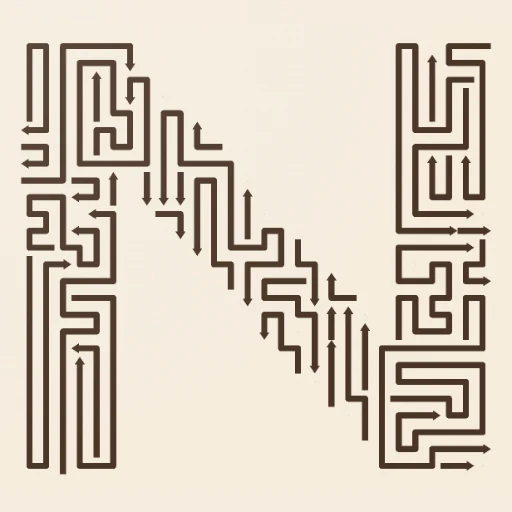
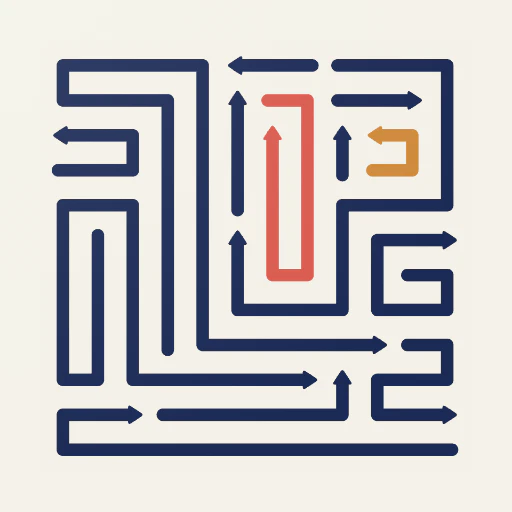
new app ad and nockways update

diff --git a/content/games/nockways.html b/content/games/nockways.html
@@ -1,81 +1,79 @@
 ---
 title: Nockways: Arrow Puzzle
-tagline: Tangled wires, one clear lane. Pull them off the board in the right order — handcrafted levels of quiet, brain-bending puzzling.
-description: A calm, offline arrow puzzle for Android. Thread interlocking wires off a crowded board, one careful move at a time. No forced ads, no timers.
-date: 2026-08-30
-status: Coming soon
+tagline: Tap the arrows in the right order and clear the whole board. A hundred handmade levels, no timers, no pressure.
+description: A calm arrow puzzle for Android. Tap each wire when its path is clear and untangle a hundred hand-built boards. Free, offline, with ads only when you ask for them.
+date: 2026-09-23
+status: Released
 price: Free
-version: 1.0.3
 developer: P26 Games
 platforms: Android
 tech: Godot 4, GDScript
 icon: /assets/games/nockways/icon.webp
 cover: /assets/games/nockways/cover.webp
-storeNote: Coming soon to Google Play
+downloadUrl: https://play.google.com/store/apps/details?id=com.p26games.nockways
 accent: "#cf8a3c"
 tint: "#f7efe0"
 
 # Repeat `feature:` for each highlight — "Title :: one line".
-feature: Challenging level design :: Boards built to be picked apart, not rushed — each one starts gentle and ends up genuinely hard, with stars to chase.
-feature: Play anywhere, offline :: No account, no sign-in, no internet needed. Your progress lives on your phone and nowhere else.
-feature: Ads only if you want them :: No banners, no interstitials, nothing between levels. The only ads are ones you tap to watch for a hint.
-feature: Made to look calm :: A warm paper board, soft ink lines and a gentle soundtrack — a puzzle you can play late at night.
-feature: Every board is solvable :: Levels are generated backwards from a solved state, so there is always a way through. No dead ends, ever.
-feature: Tiny download :: A few megabytes. The whole game draws itself as it runs, so nothing is wasted on artwork you have to wait for.
+feature: A hundred handmade levels :: Every board is drawn by hand — packed squares, then shapes like a sword, a skull, a submarine and a tank — ending on a 60×60 grid with over 200 wires.
+feature: Always solvable :: Each level is checked before it ships, so there is always a way through. You are never stuck on a puzzle that cannot be finished.
+feature: No timers, no move limit :: Take as long as you like. Nothing counts down and nothing rushes you.
+feature: A daily challenge :: A fresh puzzle every day, and a weekly streak to keep alive.
+feature: Fair when it gets hard :: Pinch to zoom on the big boards, one free hint every level, and a blocked wire costs you nothing the second time you tap it.
+feature: Ads only if you want them :: No banners and nothing between levels. The only ads are ones you tap for an extra hint or a second chance.
+feature: No account, no tracking :: No sign-in, no servers, no analytics. Your progress lives on your phone and nowhere else.
 
 # Repeat `screenshot:` for each image — "path :: alt text".
 # The text is for screen readers and search engines; nothing is shown on screen.
-screenshot: /assets/games/nockways/level-18.webp :: A dense Hard board packed with interlocking wires
-screenshot: /assets/games/nockways/level-20.webp :: A Super Hard board filling the whole lattice
-screenshot: /assets/games/nockways/level-11.webp :: A board cut into a stepped silhouette
-screenshot: /assets/games/nockways/level-16.webp :: A board shaped as an open frame
-screenshot: /assets/games/nockways/level-08.webp :: A mid-difficulty board on the dot lattice
-screenshot: /assets/games/nockways/tutorial.webp :: Level one, with the coach pointing out the first wire
-screenshot: /assets/games/nockways/victory.webp :: The result screen after clearing a level flawlessly
+screenshot: /assets/games/nockways/how-to-play.webp :: Level one: four straight arrows, and a finger tapping the one with a clear path
+screenshot: /assets/games/nockways/overview.webp :: An Easy board of winding wires, with the game's features listed underneath
+screenshot: /assets/games/nockways/heart-level.webp :: A Super Hard level shaped like a heart, packed with interlocking wires
+screenshot: /assets/games/nockways/handmade-levels.webp :: Three handmade levels side by side, each board cut into a different shape
+screenshot: /assets/games/nockways/daily-challenge.webp :: The daily challenge screen with a week of streak progress
+screenshot: /assets/games/nockways/level-complete.webp :: A Flawless result with three stars after clearing a Super Hard level
 ---
 
 <p>
-  Every wire on the board wants to leave, and only one thing stops it: something
-  standing in the lane ahead of its arrowhead. Tap a wire with a clear run and
-  it threads itself out, coil and all. Tap a blocked one and nothing happens —
-  so find the one piece that frees the rest.
+  Every wire on the board is an arrow, and every arrow wants out. Tap one and it
+  flies off in the direction it points — but only if nothing is in its way. Get
+  it wrong and it slams into whatever is blocking it, and you lose a life. The
+  whole game is that one rule.
 </p>
 
 <p>
-  It sounds simple, and the first boards are. Then the lattice fills up, the
-  wires start crossing each other's paths, and you are staring at eighty
-  interlocking coils looking for the single loose thread. Pull that, and the
-  whole board unravels in a satisfying cascade.
+  The boards are packed. Long winding wires fold back on themselves, thread past
+  each other and lock together like a circuit board. Somewhere in there is a
+  wire with a clear run to the edge. Find it, clear it, and the board opens up a
+  little more.
 </p>
 
 <h2>What it plays like</h2>
 
 <p>
-  Unhurried. There is no move counter shouting at you and no energy meter
-  locking you out for the evening. You get hearts, a timer if you want to push
-  for stars, and an undo when you need it. Levels take a couple of minutes each
-  — it is a game for a bus ride or the ten minutes before sleep.
+  Unhurried. There is no timer counting down and no move limit. Take as long
+  as you like. Levels start small and get properly big, from four straight
+  arrows on the first board to a 60×60 grid with over two hundred wires on the
+  last. Pinch to zoom when a board fills the screen.
 </p>
 
 <p>
-  Difficulty climbs steadily, from boards you clear on instinct to ones you will
-  put down and come back to. Every fifth level from
-  six is cut into a shape rather than a rectangle — a heart, a ring, a
-  diamond — which changes how the whole board reads before you touch it.
+  Every level is drawn by hand, not generated. Some are packed squares; others
+  are shapes — a heart, a sword, a skull, a submarine, a tank — which changes
+  how the whole board reads before you touch it. And there is a daily challenge
+  for when you have finished the rest.
 </p>
 
 <h2>Fair by design</h2>
 
 <p>
-  Nockways is free, and it stays out of your way. There are no banner ads, no
-  ads on launch, and none between levels. The only advertising in the game is a
-  rewarded video you choose to watch — for a hint, or to carry on after running
-  out of lives — and the game is completely finishable without ever watching
-  one.
+  Nockways is free, and it stays out of your way. There are no banner ads and
+  nothing pops up between levels. The only ads in the game are ones you tap on
+  purpose — an extra hint, or a second chance when you run out of lives — and if
+  you never tap them, you will never see an ad.
 </p>
 
 <p>
-  Nothing is uploaded anywhere. There is no account to make and no data to
-  hand over: your progress is a file on your own phone, and it disappears when
+  Nothing is uploaded anywhere. There is no account to make, no server and no
+  analytics: your progress is saved on your own phone, and it goes away when
   you uninstall.
 </p>

diff --git a/src/lib/seo.ts b/src/lib/seo.ts
@@ -132,10 +132,10 @@ export function gameSchema(game: GameMeta) {
           "@type": "Offer",
           price: /free/i.test(game.price) ? "0" : game.price,
           priceCurrency: "USD",
-          availability: game.playUrl
+          availability: game.downloadUrl || game.playUrl
             ? "https://schema.org/InStock"
             : "https://schema.org/PreOrder",
-          url: game.playUrl || url,
+          url: game.downloadUrl || game.playUrl || url,
         }
       : undefined,
   };
